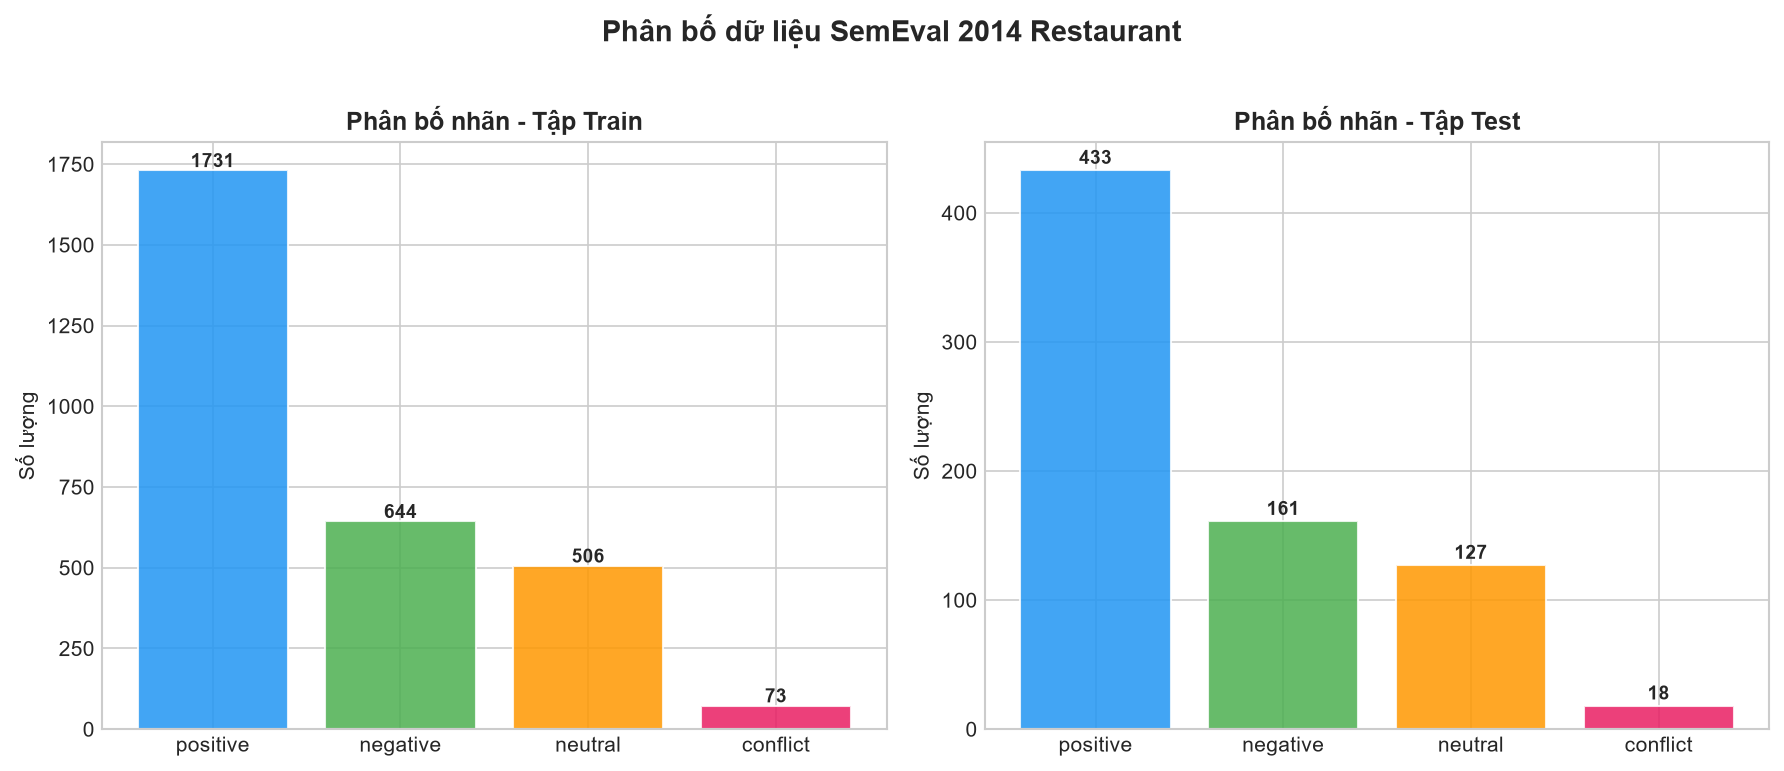
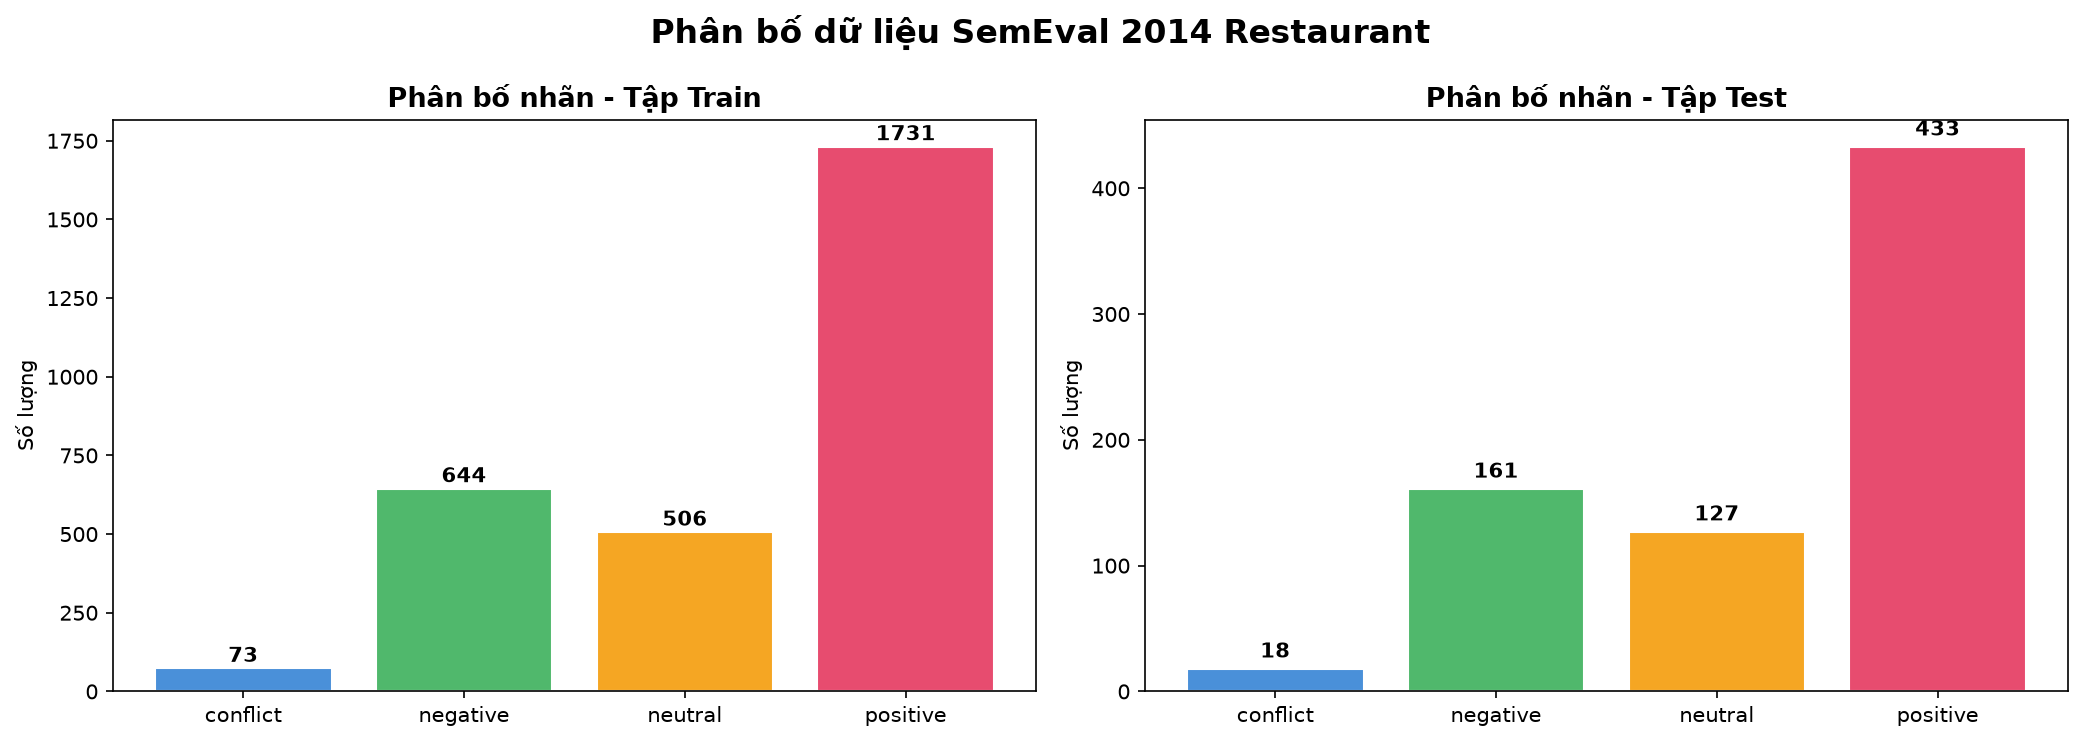
add

diff --git a/Tuan1/SemEval2014Restaurant.py b/Tuan1/SemEval2014Restaurant.py
@@ -1,6 +1,369 @@
-import kagglehub
+# -*- coding: utf-8 -*-
+# =============================================================================
+# Sentiment Analysis trên SemEval 2014 Restaurant Dataset
+# Mô hình: Naive Bayes, Logistic Regression (+ baseline: Linear SVM, Random Forest)
+# Evaluation: F1, Accuracy, ROC-AUC, Precision, Recall
+# =============================================================================
 
-# Download latest version
-path = kagglehub.dataset_download("charitarth/semeval-2014-task-4-aspectbasedsentimentanalysis")
+import os
+import sys
+import warnings
 
-print("Path to dataset files:", path)
+# Fix encoding cho Windows console
+sys.stdout.reconfigure(encoding='utf-8')
+sys.stderr.reconfigure(encoding='utf-8')
+import numpy as np
+import pandas as pd
+import matplotlib.pyplot as plt
+import seaborn as sns
+
+from sklearn.model_selection import train_test_split
+from sklearn.feature_extraction.text import TfidfVectorizer
+from sklearn.preprocessing import LabelEncoder, label_binarize
+from sklearn.metrics import (
+    accuracy_score, precision_score, recall_score, f1_score,
+    roc_auc_score, roc_curve, auc,
+    confusion_matrix, classification_report
+)
+
+# --- Các mô hình ML ---
+from sklearn.naive_bayes import MultinomialNB
+from sklearn.linear_model import LogisticRegression
+from sklearn.svm import LinearSVC
+from sklearn.ensemble import RandomForestClassifier
+
+warnings.filterwarnings('ignore')
+
+# =============================================================================
+# 1. ĐỌC DỮ LIỆU
+# =============================================================================
+print("=" * 70)
+print("1. ĐỌC DỮ LIỆU")
+print("=" * 70)
+
+# Đường dẫn dataset (đã download từ Kaggle)
+DATA_DIR = os.path.join(
+    "datasets", "charitarth",
+    "semeval-2014-task-4-aspectbasedsentimentanalysis",
+    "versions", "4"
+)
+RESULTS_DIR = "results"
+os.makedirs(RESULTS_DIR, exist_ok=True)
+
+# Đọc file CSV training
+train_file = os.path.join(DATA_DIR, "Restaurants_Train_v2.csv")
+df = pd.read_csv(train_file)
+
+print(f"Số mẫu ban đầu: {len(df)}")
+print(f"Các cột: {df.columns.tolist()}")
+print(f"\nPhân bố nhãn:")
+print(df['polarity'].value_counts())
+
+# =============================================================================
+# 2. TIỀN XỬ LÝ DỮ LIỆU
+# =============================================================================
+print("\n" + "=" * 70)
+print("2. TIỀN XỬ LÝ DỮ LIỆU")
+print("=" * 70)
+
+# Loại bỏ các hàng bị thiếu dữ liệu
+df = df.dropna(subset=['Sentence', 'polarity'])
+
+# Gộp Sentence + Aspect Term để tạo feature text (giữ ngữ cảnh aspect)
+df['text'] = df['Sentence'].astype(str) + " " + df['Aspect Term'].astype(str)
+
+# Chuẩn hóa text cơ bản (lowercase)
+df['text'] = df['text'].str.lower().str.strip()
+
+print(f"Số mẫu sau tiền xử lý: {len(df)}")
+
+# Encode nhãn polarity
+label_encoder = LabelEncoder()
+df['label'] = label_encoder.fit_transform(df['polarity'])
+class_names = label_encoder.classes_
+n_classes = len(class_names)
+
+print(f"Các nhãn: {class_names.tolist()}")
+print(f"Số lớp: {n_classes}")
+
+# =============================================================================
+# 3. CHIA TẬP TRAIN / TEST
+# =============================================================================
+print("\n" + "=" * 70)
+print("3. CHIA TẬP TRAIN / TEST (80% - 20%)")
+print("=" * 70)
+
+X = df['text']
+y = df['label']
+
+X_train, X_test, y_train, y_test = train_test_split(
+    X, y, test_size=0.2, random_state=42, stratify=y
+)
+
+print(f"Train: {len(X_train)} mẫu")
+print(f"Test:  {len(X_test)} mẫu")
+
+# Phân bố nhãn Train/Test
+fig, axes = plt.subplots(1, 2, figsize=(14, 5))
+fig.suptitle("Phân bố dữ liệu SemEval 2014 Restaurant", fontsize=16, fontweight='bold')
+
+colors = ['#4A90D9', '#50B86C', '#F5A623', '#E74C6F']
+
+for ax, data, title in [
+    (axes[0], y_train, "Phân bố nhãn - Tập Train"),
+    (axes[1], y_test,  "Phân bố nhãn - Tập Test")
+]:
+    counts = pd.Series(data).map(lambda x: class_names[x]).value_counts()
+    counts = counts.reindex(class_names)
+    bars = ax.bar(counts.index, counts.values, color=colors[:n_classes], edgecolor='white')
+    ax.set_title(title, fontsize=13, fontweight='bold')
+    ax.set_ylabel("Số lượng")
+    for bar, val in zip(bars, counts.values):
+        ax.text(bar.get_x() + bar.get_width()/2, bar.get_height() + 5,
+                str(val), ha='center', va='bottom', fontweight='bold')
+
+plt.tight_layout()
+plt.savefig(os.path.join(RESULTS_DIR, "label_distribution.png"), dpi=150, bbox_inches='tight')
+plt.close()
+print("✅ Đã lưu biểu đồ phân bố nhãn → results/label_distribution.png")
+
+# =============================================================================
+# 4. TRÍCH XUẤT ĐẶC TRƯNG (TF-IDF)
+# =============================================================================
+print("\n" + "=" * 70)
+print("4. TRÍCH XUẤT ĐẶC TRƯNG (TF-IDF)")
+print("=" * 70)
+
+tfidf = TfidfVectorizer(
+    max_features=10000,
+    ngram_range=(1, 2),      # Unigram + Bigram
+    min_df=2,
+    max_df=0.95,
+    sublinear_tf=True
+)
+
+X_train_tfidf = tfidf.fit_transform(X_train)
+X_test_tfidf = tfidf.transform(X_test)
+
+print(f"Số features TF-IDF: {X_train_tfidf.shape[1]}")
+print(f"Shape Train: {X_train_tfidf.shape}")
+print(f"Shape Test:  {X_test_tfidf.shape}")
+
+# =============================================================================
+# 5. XÂY DỰNG VÀ HUẤN LUYỆN CÁC MÔ HÌNH
+# =============================================================================
+print("\n" + "=" * 70)
+print("5. XÂY DỰNG VÀ HUẤN LUYỆN CÁC MÔ HÌNH")
+print("=" * 70)
+
+# Định nghĩa các mô hình
+models = {
+    # --- Mô hình chính (yêu cầu đề bài) ---
+    "Multinomial Naïve Bayes": MultinomialNB(alpha=1.0),
+    "Logistic Regression": LogisticRegression(
+        max_iter=1000, C=1.0, solver='lbfgs', random_state=42
+    ),
+    # --- Mô hình baseline (để so sánh) ---
+    "Linear SVM": LinearSVC(max_iter=2000, C=1.0, random_state=42),
+    "Random Forest": RandomForestClassifier(
+        n_estimators=200, max_depth=50, random_state=42, n_jobs=-1
+    ),
+}
+
+# Dictionary lưu kết quả
+results = {}
+
+for name, model in models.items():
+    print(f"\n--- Training: {name} ---")
+    model.fit(X_train_tfidf, y_train)
+    y_pred = model.predict(X_test_tfidf)
+
+    # Tính các metrics
+    acc = accuracy_score(y_test, y_pred)
+    prec_macro = precision_score(y_test, y_pred, average='macro', zero_division=0)
+    rec_macro = recall_score(y_test, y_pred, average='macro', zero_division=0)
+    f1_macro = f1_score(y_test, y_pred, average='macro', zero_division=0)
+    prec_w = precision_score(y_test, y_pred, average='weighted', zero_division=0)
+    rec_w = recall_score(y_test, y_pred, average='weighted', zero_division=0)
+    f1_w = f1_score(y_test, y_pred, average='weighted', zero_division=0)
+
+    # Tính ROC-AUC (cần probability scores)
+    y_test_bin = label_binarize(y_test, classes=range(n_classes))
+
+    # Lấy probability/decision scores cho ROC
+    if hasattr(model, 'predict_proba'):
+        y_score = model.predict_proba(X_test_tfidf)
+    elif hasattr(model, 'decision_function'):
+        y_score = model.decision_function(X_test_tfidf)
+    else:
+        y_score = label_binarize(y_pred, classes=range(n_classes))
+
+    try:
+        roc_macro = roc_auc_score(y_test_bin, y_score, average='macro', multi_class='ovr')
+    except Exception:
+        roc_macro = float('nan')
+
+    results[name] = {
+        'model': model,
+        'y_pred': y_pred,
+        'y_score': y_score,
+        'Accuracy': round(acc, 4),
+        'Precision (Macro)': round(prec_macro, 4),
+        'Recall (Macro)': round(rec_macro, 4),
+        'F1 (Macro)': round(f1_macro, 4),
+        'Precision (Weighted)': round(prec_w, 4),
+        'Recall (Weighted)': round(rec_w, 4),
+        'F1 (Weighted)': round(f1_w, 4),
+        'ROC-AUC (Macro)': round(roc_macro, 4),
+    }
+
+    # In classification report
+    print(f"  Accuracy:          {acc:.4f}")
+    print(f"  Precision (Macro): {prec_macro:.4f}")
+    print(f"  Recall (Macro):    {rec_macro:.4f}")
+    print(f"  F1 (Macro):        {f1_macro:.4f}")
+    print(f"  ROC-AUC (Macro):   {roc_macro:.4f}")
+    print(f"\n  Classification Report:")
+    print(classification_report(y_test, y_pred, target_names=class_names, zero_division=0))
+
+# =============================================================================
+# 6. ĐÁNH GIÁ VÀ SO SÁNH MÔ HÌNH
+# =============================================================================
+print("\n" + "=" * 70)
+print("6. ĐÁNH GIÁ VÀ SO SÁNH MÔ HÌNH")
+print("=" * 70)
+
+# Tạo bảng kết quả
+metrics_cols = [
+    'Accuracy', 'Precision (Macro)', 'Recall (Macro)', 'F1 (Macro)',
+    'Precision (Weighted)', 'Recall (Weighted)', 'F1 (Weighted)', 'ROC-AUC (Macro)'
+]
+df_results = pd.DataFrame(
+    {name: {m: results[name][m] for m in metrics_cols} for name in results}
+).T
+df_results.index.name = 'Model'
+
+print("\n📊 BẢNG KẾT QUẢ TỔNG HỢP:")
+print(df_results.to_string())
+
+# Lưu CSV
+df_results.to_csv(os.path.join(RESULTS_DIR, "model_results.csv"))
+print(f"\n✅ Đã lưu kết quả → results/model_results.csv")
+
+# --- 6.1 Biểu đồ so sánh các metrics chính ---
+compare_metrics = ['Accuracy', 'F1 (Macro)', 'Precision (Macro)', 'Recall (Macro)', 'ROC-AUC (Macro)']
+model_names = list(results.keys())
+bar_colors = ['#4A90D9', '#50B86C', '#F5A623', '#E74C6F']
+
+fig, ax = plt.subplots(figsize=(16, 7))
+fig.suptitle("So sánh các mô hình ML - Sentiment Analysis\n(SemEval 2014 Restaurant Dataset)",
+             fontsize=16, fontweight='bold')
+
+x = np.arange(len(compare_metrics))
+width = 0.18
+offsets = np.arange(len(model_names)) - (len(model_names) - 1) / 2
+
+for i, name in enumerate(model_names):
+    vals = [df_results.loc[name, m] for m in compare_metrics]
+    bars = ax.bar(x + offsets[i] * width, vals, width,
+                  label=name, color=bar_colors[i], edgecolor='white', linewidth=0.5)
+    for bar, val in zip(bars, vals):
+        ax.text(bar.get_x() + bar.get_width()/2, bar.get_height() + 0.008,
+                f"{val:.3f}", ha='center', va='bottom', fontsize=9, fontweight='bold')
+
+ax.set_xticks(x)
+ax.set_xticklabels(compare_metrics, fontsize=11)
+ax.set_ylabel("Score", fontsize=12)
+ax.set_ylim(0, 1.12)
+ax.legend(loc='lower right', fontsize=10)
+ax.grid(axis='y', alpha=0.3, linestyle='--')
+
+plt.tight_layout()
+plt.savefig(os.path.join(RESULTS_DIR, "model_comparison.png"), dpi=150, bbox_inches='tight')
+plt.close()
+print("✅ Đã lưu biểu đồ so sánh → results/model_comparison.png")
+
+# --- 6.2 Confusion Matrix ---
+fig, axes = plt.subplots(2, 2, figsize=(14, 12))
+fig.suptitle("Confusion Matrix - Các mô hình ML\n(SemEval 2014 Restaurant Dataset)",
+             fontsize=16, fontweight='bold')
+
+for ax, name in zip(axes.flatten(), model_names):
+    cm = confusion_matrix(y_test, results[name]['y_pred'])
+    sns.heatmap(cm, annot=True, fmt='d', cmap='Blues', ax=ax,
+                xticklabels=class_names, yticklabels=class_names)
+    ax.set_title(name, fontsize=13, fontweight='bold')
+    ax.set_xlabel("Dự đoán (Predicted)")
+    ax.set_ylabel("Thực tế (Actual)")
+
+plt.tight_layout()
+plt.savefig(os.path.join(RESULTS_DIR, "confusion_matrices.png"), dpi=150, bbox_inches='tight')
+plt.close()
+print("✅ Đã lưu confusion matrices → results/confusion_matrices.png")
+
+# --- 6.3 ROC Curves (One-vs-Rest) ---
+y_test_bin = label_binarize(y_test, classes=range(n_classes))
+
+fig, axes = plt.subplots(1, n_classes, figsize=(5 * n_classes, 5))
+fig.suptitle("ROC Curves (One-vs-Rest) - Các mô hình ML\n(SemEval 2014 Restaurant Dataset)",
+             fontsize=16, fontweight='bold')
+
+for class_idx in range(n_classes):
+    ax = axes[class_idx]
+    ax.set_title(f"ROC Curve: {class_names[class_idx]}", fontsize=12, fontweight='bold')
+
+    for i, name in enumerate(model_names):
+        y_score = results[name]['y_score']
+
+        # Xử lý trường hợp score không cùng shape
+        if y_score.ndim == 1:
+            continue
+        try:
+            fpr, tpr, _ = roc_curve(y_test_bin[:, class_idx], y_score[:, class_idx])
+            roc_auc_val = auc(fpr, tpr)
+            ax.plot(fpr, tpr, color=bar_colors[i], linewidth=2,
+                    label=f"{name} (AUC={roc_auc_val:.3f})")
+        except Exception:
+            pass
+
+    ax.plot([0, 1], [0, 1], 'k--', linewidth=1, alpha=0.5, label='Random (AUC=0.500)')
+    ax.set_xlabel("False Positive Rate")
+    ax.set_ylabel("True Positive Rate")
+    ax.legend(fontsize=8, loc='lower right')
+    ax.grid(alpha=0.3, linestyle='--')
+
+plt.tight_layout()
+plt.savefig(os.path.join(RESULTS_DIR, "roc_curves.png"), dpi=150, bbox_inches='tight')
+plt.close()
+print("✅ Đã lưu ROC curves → results/roc_curves.png")
+
+# =============================================================================
+# 7. KẾT LUẬN
+# =============================================================================
+print("\n" + "=" * 70)
+print("7. KẾT LUẬN")
+print("=" * 70)
+
+# Tìm model tốt nhất theo từng metric
+print("\n🏆 Model tốt nhất theo từng metric:")
+for metric in compare_metrics:
+    best_model = df_results[metric].idxmax()
+    best_val = df_results[metric].max()
+    print(f"  {metric:25s}: {best_model} ({best_val:.4f})")
+
+# So sánh Naive Bayes vs Logistic Regression (2 model chính)
+print("\n📊 SO SÁNH 2 MÔ HÌNH CHÍNH:")
+print("-" * 50)
+nb_results = df_results.loc["Multinomial Naïve Bayes"]
+lr_results = df_results.loc["Logistic Regression"]
+
+comparison_df = pd.DataFrame({
+    'Naïve Bayes': nb_results[compare_metrics],
+    'Logistic Regression': lr_results[compare_metrics],
+    'Chênh lệch': lr_results[compare_metrics] - nb_results[compare_metrics]
+})
+print(comparison_df.to_string())
+
+print("\n" + "=" * 70)
+print("✅ HOÀN TẤT! Tất cả kết quả đã được lưu trong thư mục 'results/'")
+print("=" * 70)
